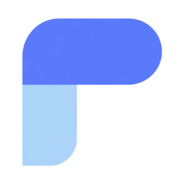
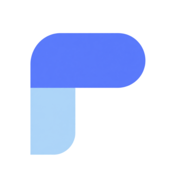
feat(website): give search results the Pudu mark and site name
Google shows a favicon only at a multiple of 48 pixels, and the site's only
icon was 64, so results showed a globe. The site now serves /favicon.ico and
the P mark at 48, 96, 192, and 512 pixels, a touch icon, a web manifest, and
a theme colour. The home page's JSON-LD names the site and its organization
with a logo and a search action, and its title and description describe the
language.

Changed region(s): [[0.1111, 0.0833, 0.9167, 0.9444]]

diff --git a/wiki/src/website/Seo.md b/wiki/src/website/Seo.md
@@ -9,6 +9,10 @@ aliases: [website Seo]
 
 Builds route-specific title, description, canonical, robots, Open Graph, Twitter, and JSON-LD head
 nodes. It also renders the root robots policy and an XML sitemap from the generated catalogue and public package snapshot.
+The home page carries a JSON-LD `@graph` of a `WebSite` (named `Pudu`, with the alternate names
+search results may show and a `SearchAction` into `/search?q=`) and the `Organization` behind it, with
+the 512-pixel mark as its logo and the repository as `sameAs`. That is what lets a result show the
+site as "Pudu" and with its logo rather than its domain.
 The about page carries `AboutPage` data for Pudu and its author; the author's profile identities
 are the same fixed destinations shown to readers.
 
@@ -29,6 +33,9 @@ stays one file while the catalogue remains below 50,000 URLs.
   duplicate thin pages and unbounded crawl space. _Rejected:_ indexing internal search results.
 - **Q:** Block search in robots.txt as well as using `noindex`? **A:** No. _Rationale:_ a crawler
   must fetch the page to read `noindex`. _Rejected:_ conflicting crawl and index controls.
+- **Q:** Why did search results show a globe for the site? **A:** Its only icon was 64 pixels, and
+  Google shows a favicon only at a multiple of 48 pixels, ideally with `/favicon.ico` at the root.
+  _Resolution:_ the icon set in [[website View Layout]].
 - **Q:** Add hreflang? **A:** Not until a translated canonical page exists. _Rationale:_ hreflang
   must identify real alternates, not planned translations. _Rejected:_ speculative language tags.
 

diff --git a/wiki/src/website/View/Layout.md b/wiki/src/website/View/Layout.md
@@ -8,7 +8,10 @@ aliases: [website View Layout]
 # Website View Layout
 
 Builds the shared typed-HTML document shell, masthead, search form, navigation, metadata, and footer.
-The document advertises the supplied short Pudu logo as its browser icon. Navigation exposes the
+The document advertises the Pudu "P" mark as its icon at sizes search engines accept: `/favicon.ico`
+(16, 32, and 48 pixels) and PNGs of 48, 96, and 192 pixels, every one a multiple of 48 as Google's
+search results require. It also links a 180-pixel touch icon on white, the web manifest
+`/site.webmanifest` (192 and 512 pixels), and a `theme-color`. Navigation exposes the
 documentation, API, about page, and donation page; the repository remains in the footer without an icon in the
 header. Mobile pages use a native disclosure immediately followed by the same navigation links, while
 desktop pages show the direct link row. The footer names the copyright holder on every page. Static style

diff --git a/wiki/CHANGELOG.md b/wiki/CHANGELOG.md
@@ -5,6 +5,16 @@ tags: [changelog]
 
 # Changelog
 
+## 2026-09-24 — The Pudu mark in search results
+
+- Search results showed a globe for the site: its only icon was 64 pixels, and Google shows a favicon
+  only at a multiple of 48. The site now serves `/favicon.ico` (16, 32, 48) and the "P" mark at 48, 96,
+  192, and 512 pixels, a 180-pixel touch icon, `/site.webmanifest`, and a `theme-color`
+  ([[website View Layout]]).
+- The home page names the site `Pudu`, with alternate names, a `SearchAction`, and the organization
+  and its logo, in one JSON-LD graph. Its title and description now describe the language
+  ([[website Seo]]).
+
 ## 2026-09-24 — Installing packages from a terminal is tested (#314)
 
 - [[Package install suite]] drives `pudu install`, `uninstall`, `deps`, and `tree` against real git
